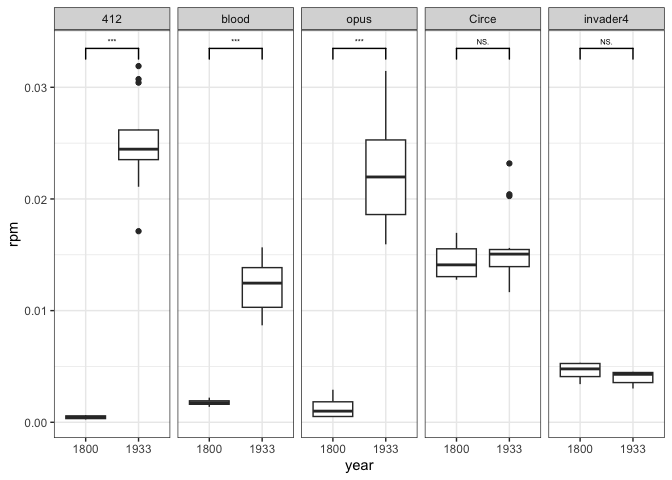
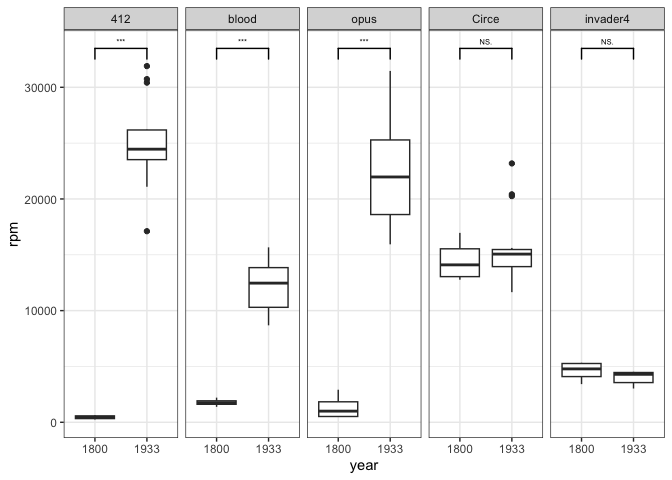
piRNAs

diff --git a/Analysis/2023_05_23_PopulationTE2_rpm.md b/Analysis/2023_05_23_PopulationTE2_rpm.md
@@ -13,11 +13,11 @@ theme_set(theme_bw())
 
 ``` r
 df_0 <- read.csv("/Users/ascarpa/dmel_TE_invasions/Analysis/Pop2_reads.csv", header = TRUE)
-df_0$rpm_tot <- df_0$reads/df_0$reads_in_file
-df_0$rpm_map <- df_0$reads/df_0$reads_mapped
+df_0$rpm_tot <- (df_0$reads*1000000)/df_0$reads_in_file
+df_0$rpm_map <- (df_0$reads*1000000)/df_0$reads_mapped
 
 
-df_metadata <- read.table("/Users/ascarpa/Downloads/dataset-metadata.txt", sep = "\t", header = TRUE)
+df_metadata <- read.table("/Users/ascarpa/dmel_TE_invasions/dataset-metadata", sep = "\t", header = TRUE)
 
 df_1 <- inner_join(df_0, df_metadata, by = "run_accession") 
 
@@ -43,6 +43,21 @@ plot(rpm_map)
 ```
 
 ![](2023_05_23_PopulationTE2_rpm_files/figure-gfm/unnamed-chunk-2-1.png)<!-- -->
+
+``` r
+#Sanity check on signle copy genes
+df_GDL_museum_8b_TEs <- subset(df_museum, te=="Dmel_rhi"|te=="Dmel_rpl32"|te=="Dmel_tj")
+
+df_GDL_museum_8b_TEs$study <- factor(df_GDL_museum_8b_TEs$estimated_year, levels = c(1800, 1933))
+
+ggplot(df_GDL_museum_8b_TEs, aes(x = as.factor(estimated_year), y = rpm_tot)) +
+  geom_boxplot() +
+  geom_signif(comparisons = list(c("1800", "1933")), map_signif_level = TRUE) +
+  facet_wrap(~ te, nrow = 1) +
+  labs(x = "year", y = "rpm")
+```
+
+![](2023_05_23_PopulationTE2_rpm_files/figure-gfm/unnamed-chunk-2-2.png)<!-- -->
 
 The results are consistent if we use a different software and we
 consider the row reads without normalization

diff --git a/Analysis/2023_05_30_piRNA_on_TEs.md b/Analysis/2023_05_30_piRNA_on_TEs.md
@@ -1,0 +1,41 @@
+2023_05_30_piRNA_on_TEs
+================
+Almorò Scarpa
+
+Setting the environment
+
+``` r
+library(tidyverse)
+theme_set(theme_bw())
+```
+
+``` r
+df <- read.table("/Volumes/INTENSO/piRNA/noadapt/bam/piRNAonTEsforR")
+names(df) <- c("Run", "te","pos","pirna")
+df <- subset(df, te=="412" | te=="BLOOD" |te=="OPUS")
+
+metadata <- read.csv("/Volumes/INTENSO/piRNA/info/SraRunTable_piRNA.txt")
+metadata <- metadata %>%
+  select("Run", "Strain")
+
+df<-inner_join(df, metadata, by = "Run")
+
+ylow=min(df$pirna)
+yhigh=max(df$pirna)
+
+g_1 <- ggplot(df,aes(x=pos,y=pirna))+
+  geom_segment(aes(xend=pos),yend=0)+
+  ylim(ylow,yhigh)+
+  ylab("piRNA abundance [pmp]")+
+  xlab("position of piRNA (5' end)")+
+  facet_grid( Strain ~ te, labeller = labeller(te = 
+                                                 c("412" = "412",
+                                                   "BLOOD" = "Blood",
+                                                   "OPUS" = "Opus",
+                                                   "CIRC" = "Circe",
+                                                   "INVADER4" = "Invader-4")))
+
+plot(g_1)
+```
+
+![](2023_05_30_piRNA_on_TEs_files/figure-gfm/unnamed-chunk-2-1.png)<!-- -->
